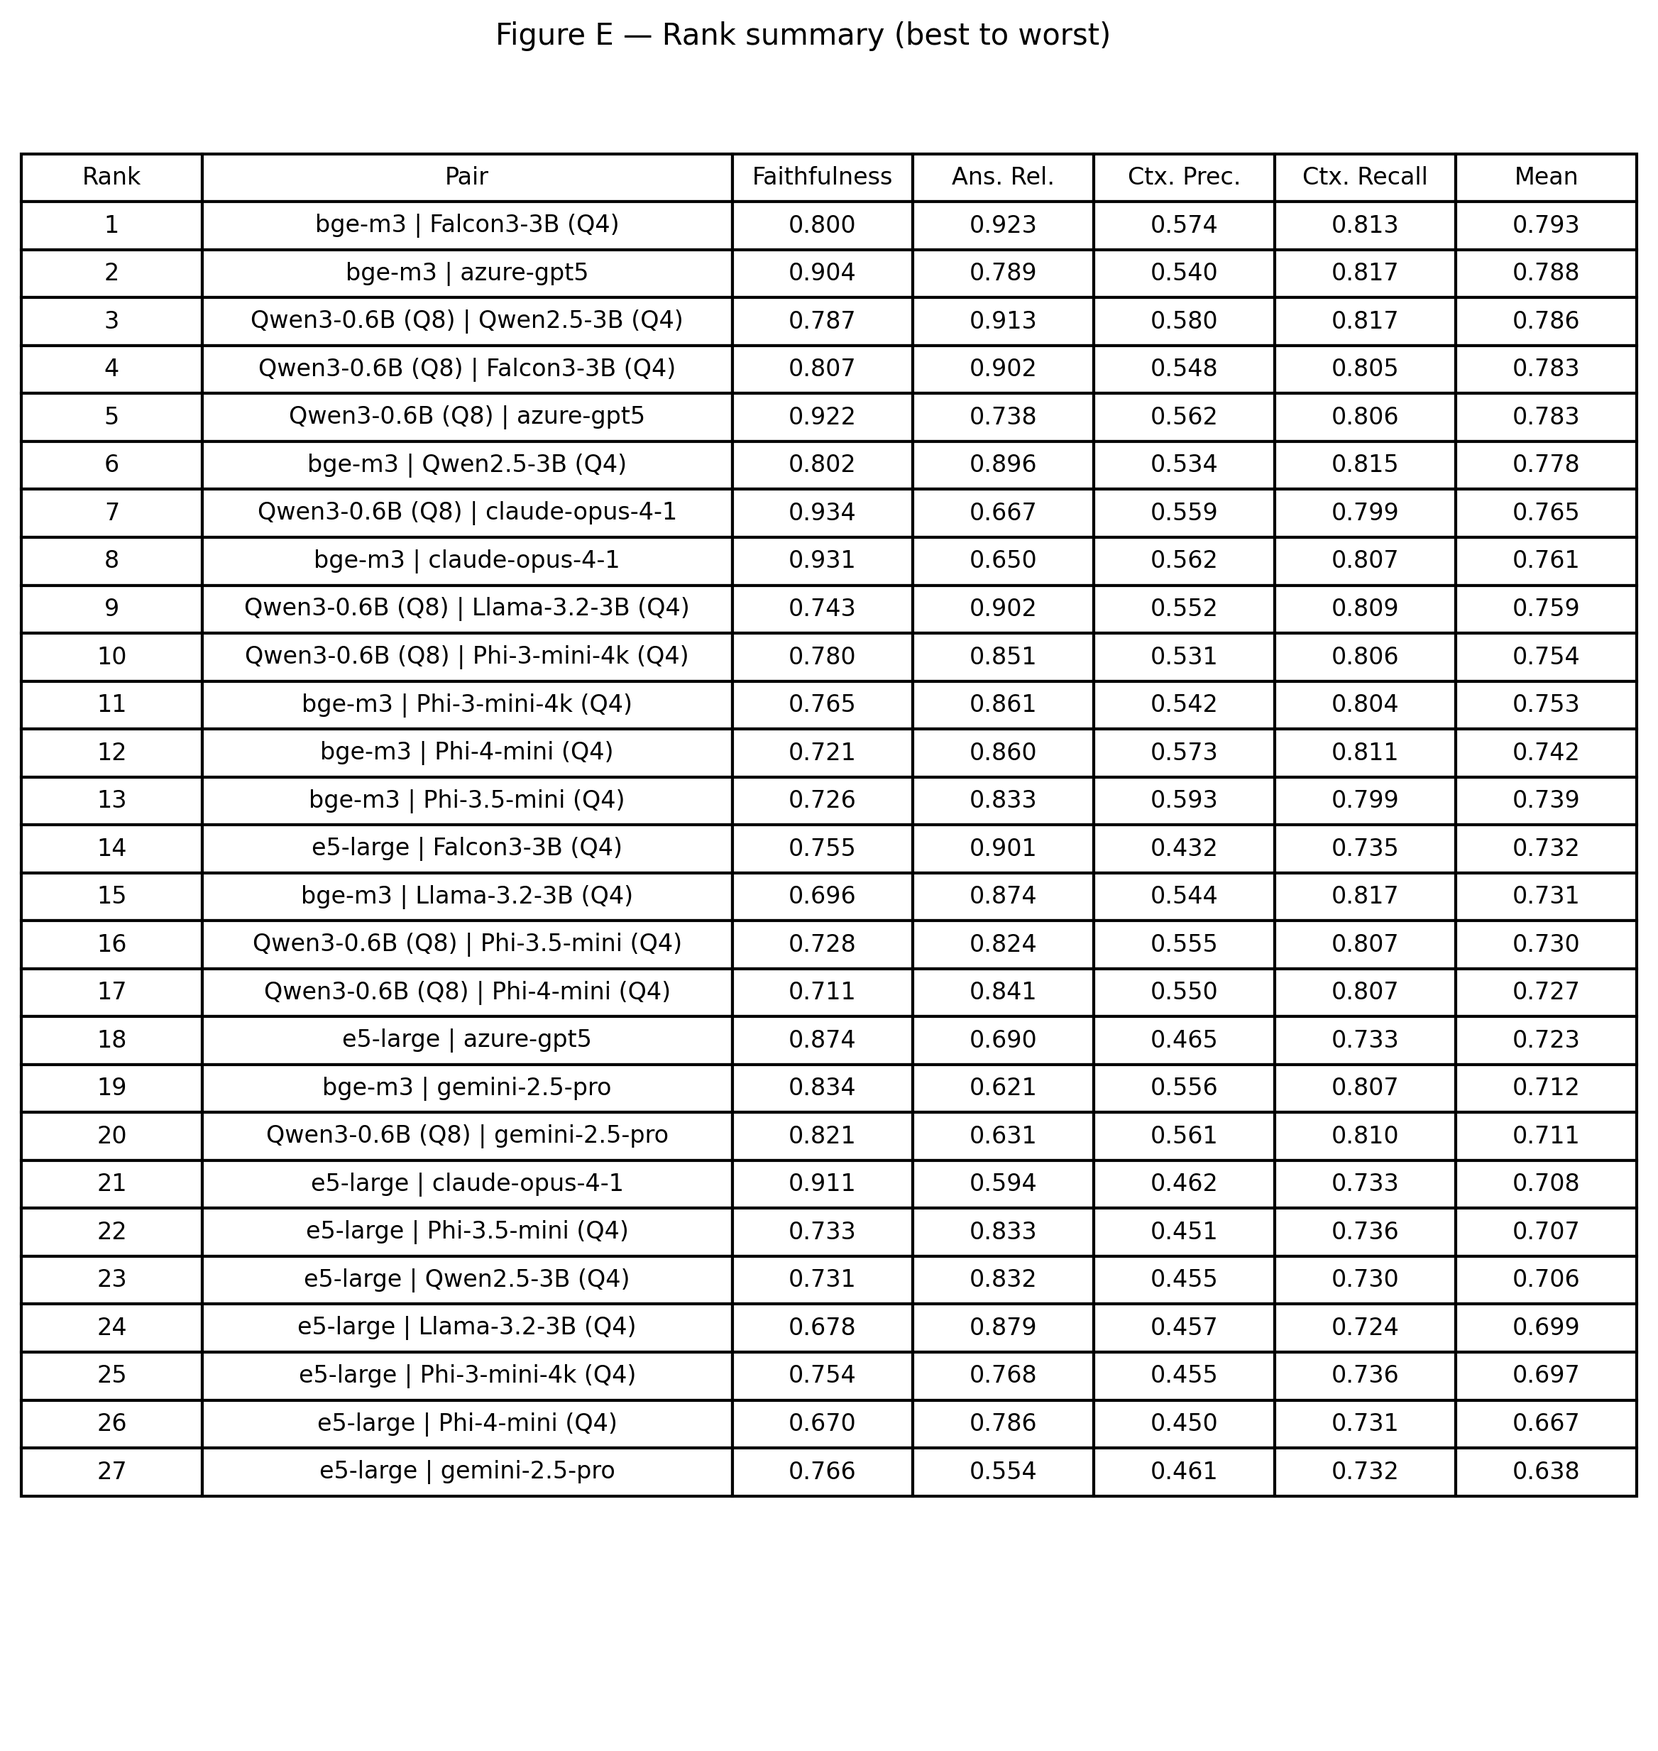
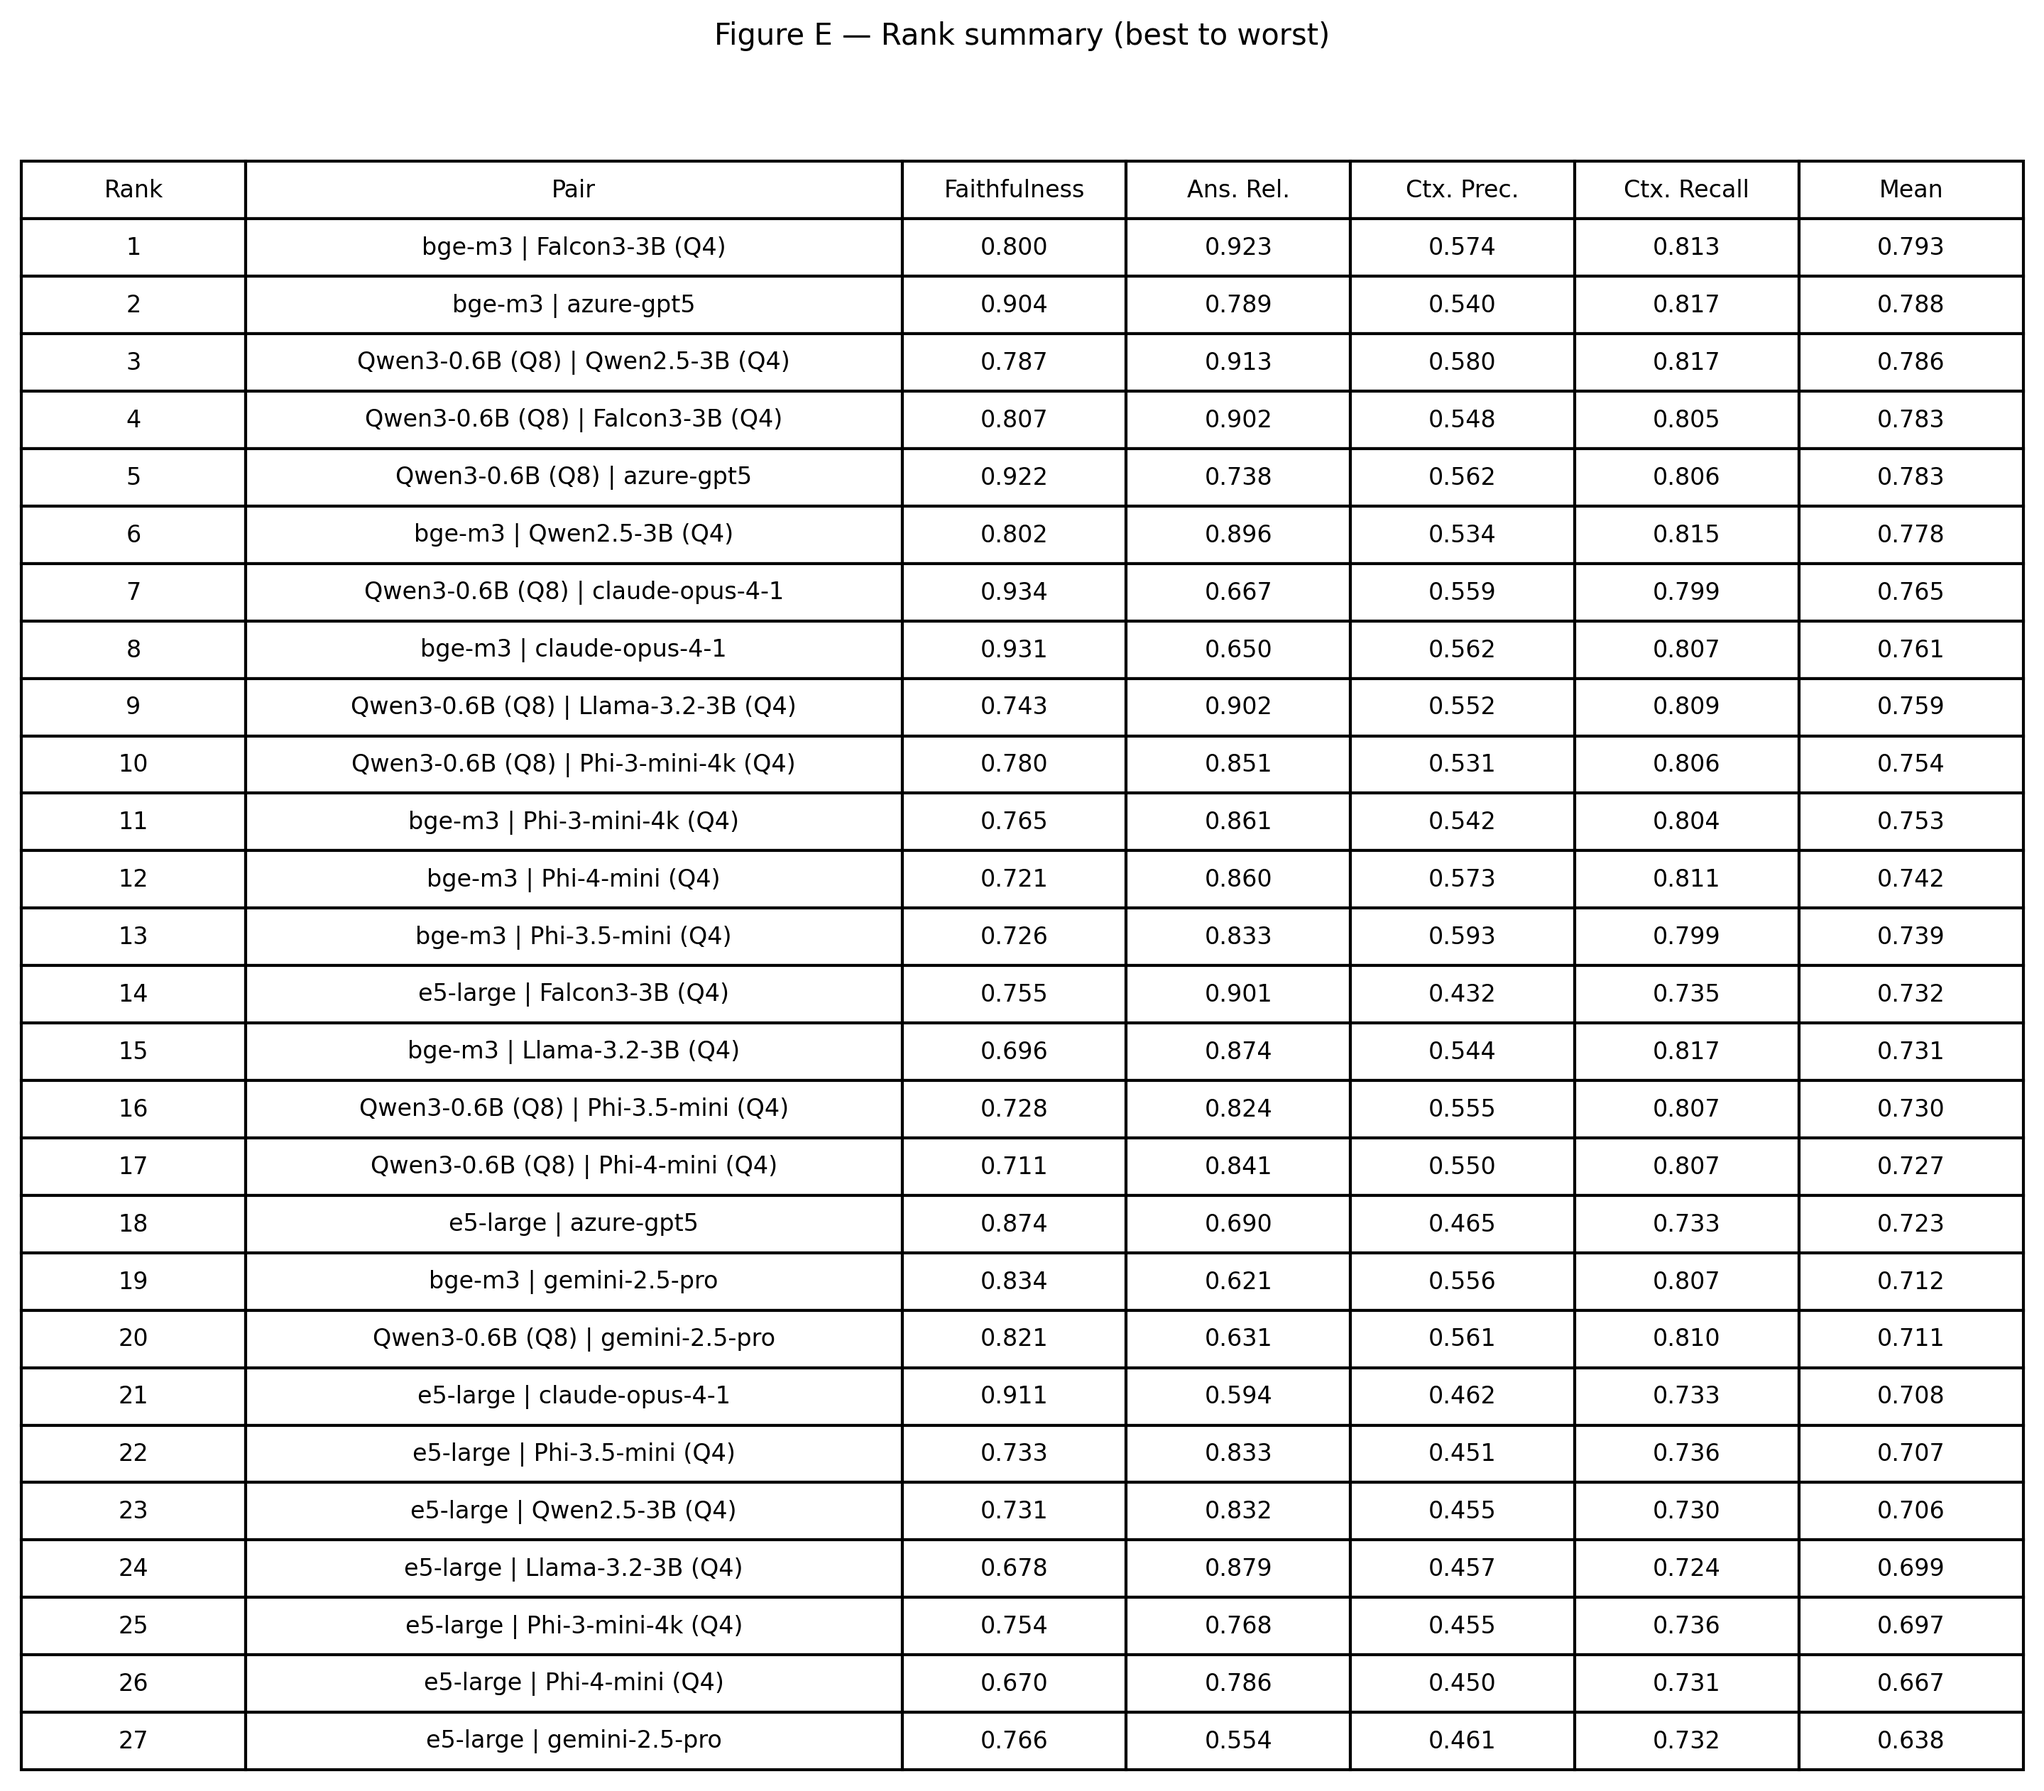
fixed the whitespace at bottom of figure E

Changed region(s): [[0.0, 0.0624, 1.0, 0.9988], [0.3125, 0.0, 0.6562, 0.0312]]

diff --git a/src/benchmarking/plot_rag_results.py b/src/benchmarking/plot_rag_results.py
@@ -450,12 +450,15 @@ def plot_ranking(
 
         fig_tbl, ax_tbl = plt.subplots(figsize=(fig_w_in, fig_h_in))
         ax_tbl.axis("off")
+
+        # Use bbox to precisely position the table and minimize whitespace
         tbl = ax_tbl.table(
             cellText=cell_text,
             colLabels=table_cols,
-            loc="upper center",  # Position table higher to reduce gap with title
+            loc="center",
             cellLoc="center",
             colLoc="center",
+            bbox=[0.0, 0.0, 1.0, 1.0],  # Fill the entire axis area
         )
         tbl.auto_set_font_size(False)
         tbl.set_fontsize(8)
@@ -474,9 +477,9 @@ def plot_ranking(
 
         tbl.scale(1.0, 1.3)
 
-        # Adjust spacing and title position for better layout
-        fig_tbl.subplots_adjust(top=0.9, bottom=0.1)  # Leave space for title, reduce bottom padding
-        fig_tbl.suptitle("Figure E — Rank summary (best to worst)", y=0.95, fontsize=10)
+        # Minimize whitespace with tighter layout
+        fig_tbl.subplots_adjust(top=0.85, bottom=0.05, left=0.02, right=0.98)  # Aggressive padding reduction
+        fig_tbl.suptitle("Figure E — Rank summary (best to worst)", y=0.92, fontsize=10)
 
         # Save with manual layout (skip tight_layout for tables)
         outname = (outdir / "figure_E_rank_summary").with_suffix(f".{fmt}")
